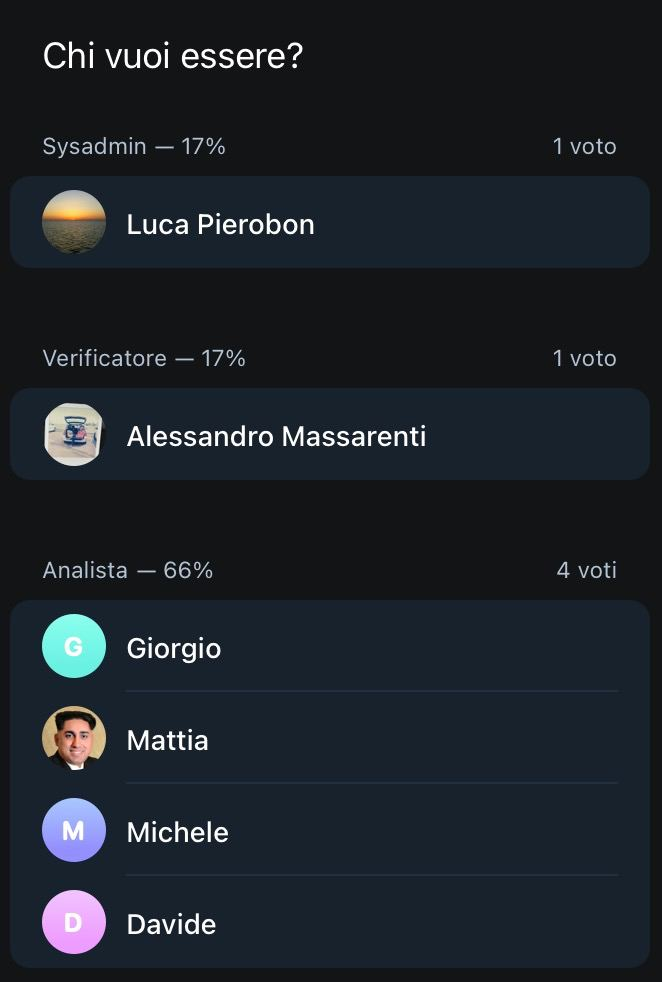
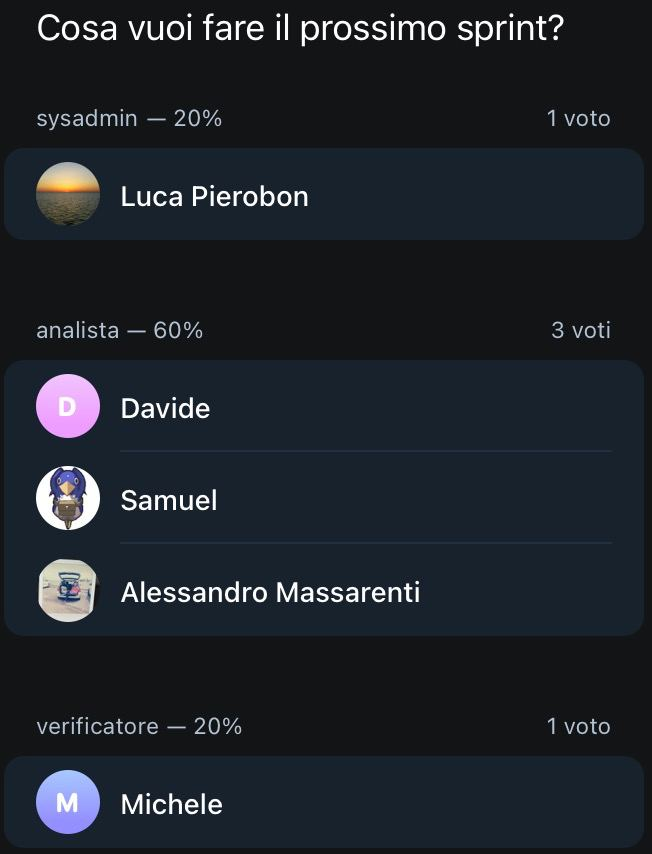
Completato il verbale della scelta configurazione team

diff --git a/interni/scelta_configurazione_team_3,4_sprint/contenuti/svolgimento.tex b/interni/scelta_configurazione_team_3,4_sprint/contenuti/svolgimento.tex
@@ -12,3 +12,5 @@ Il nuovo eletto responsabile ha proposto un sondaggio per la definizione dei ruo
 \end{center}
 
 Data l'assenza di sovrapposizione tra i desideri di ognuno i ruoli scelti sono decisi come da sondaggio.
+
+Degli analisti viene fatto un cambio di solamente 2 persone per mantenere continuità nell'analisi dei requisiti.
